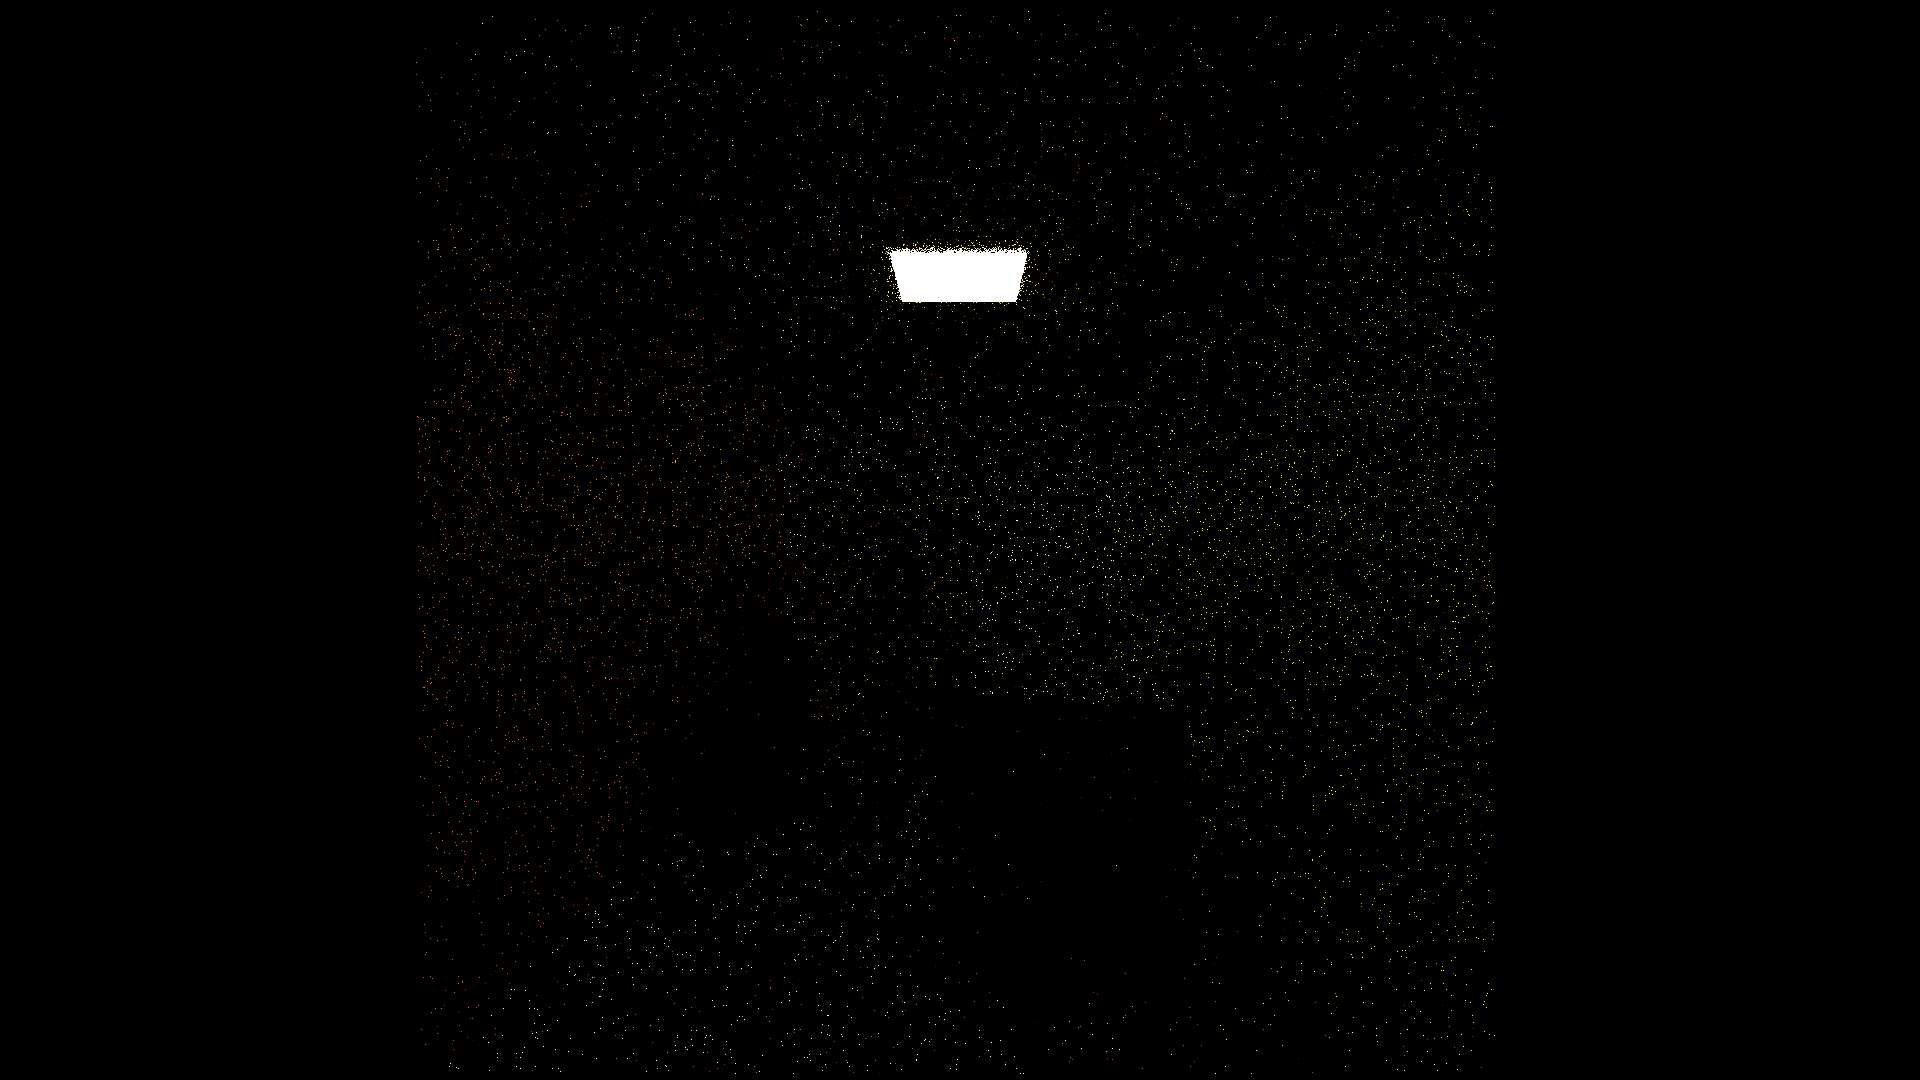
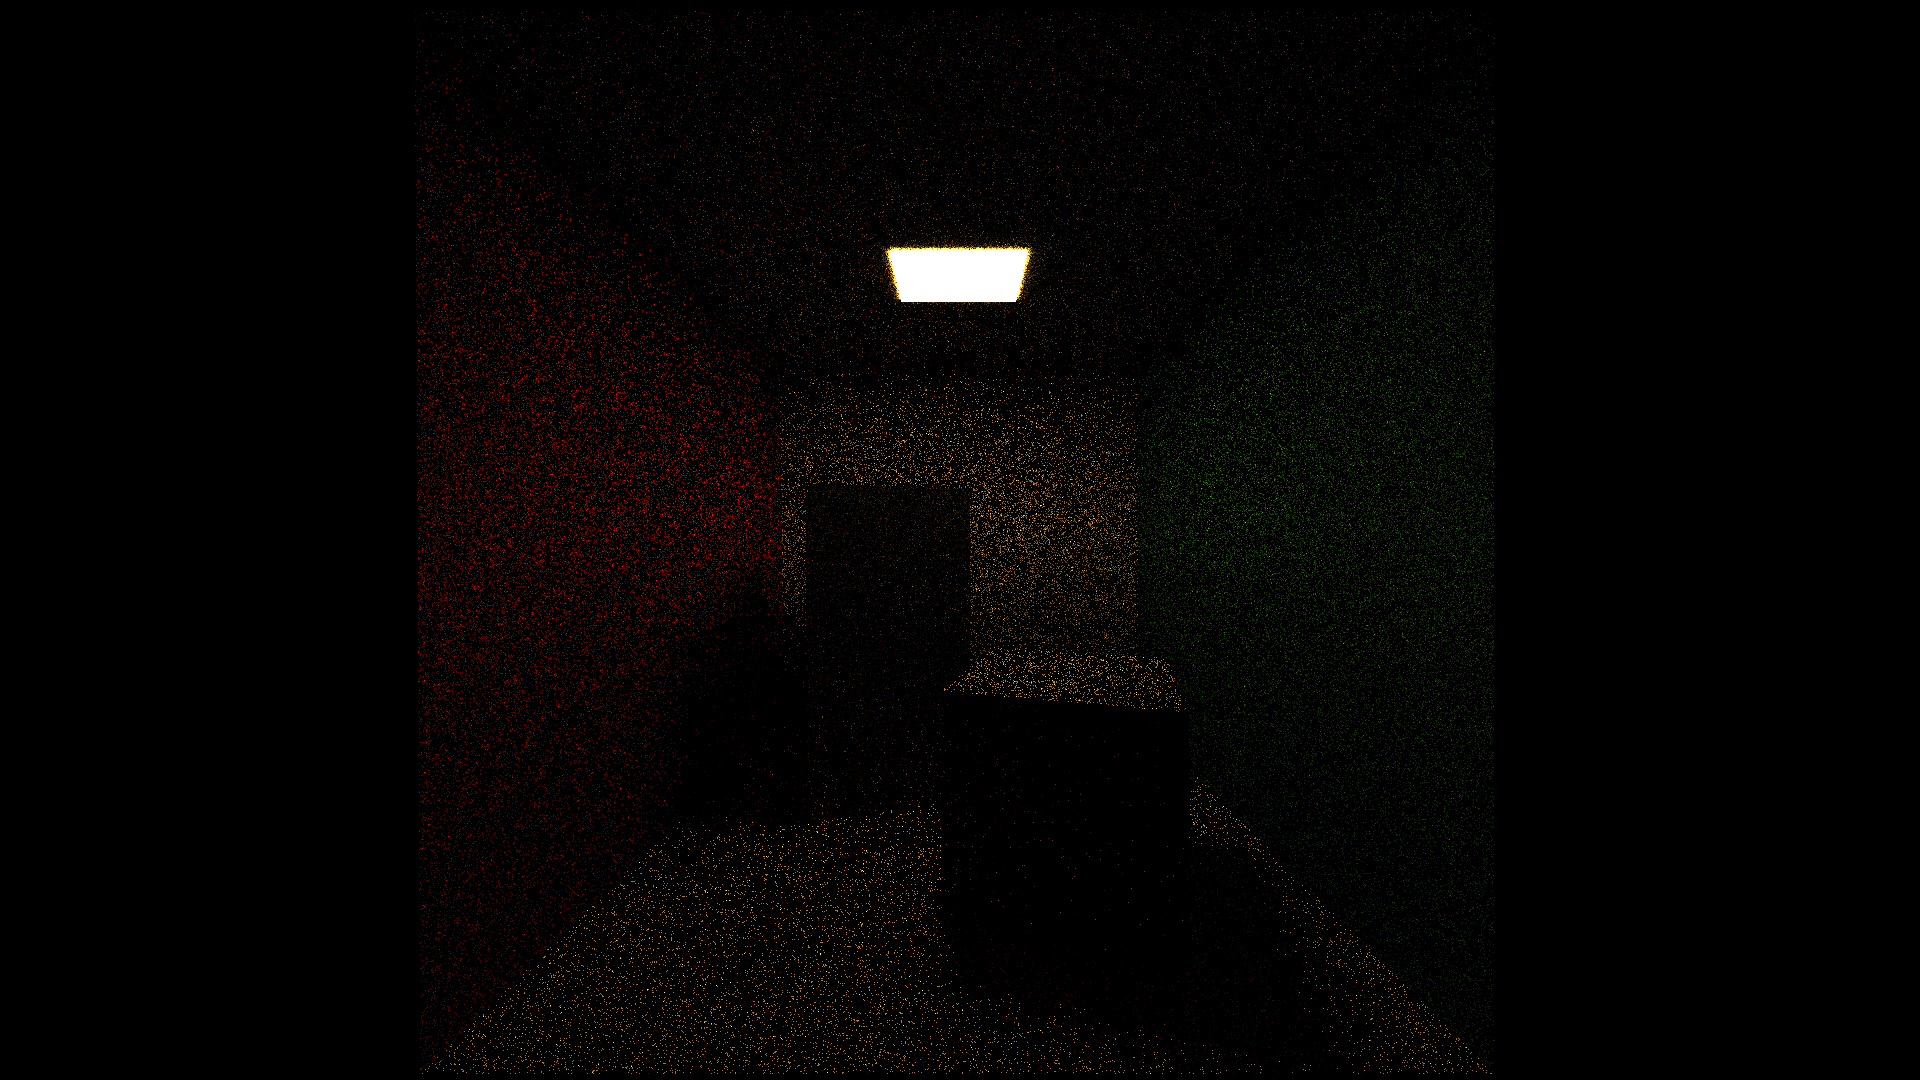
raytracing

Changed region(s): [[0.2188, 0.2139, 0.7812, 0.8556], [0.4375, 0.2139, 0.5625, 0.3056], [0.3125, 0.8556, 0.3438, 0.8861]]

diff --git a/src/renderer/raytracer/raytracer.h b/src/renderer/raytracer/raytracer.h
@@ -224,7 +224,7 @@ namespace cg::renderer
 					history_pixel += payload.color.to_float3() * frame_weight;
 
 					if (frame_id == accumulation_num - 1)
-						render_target->item(x, y) = RT::from_color(payload.color);
+						render_target->item(x, y) = RT::from_float3(history_pixel);
 
 				}
 			}
